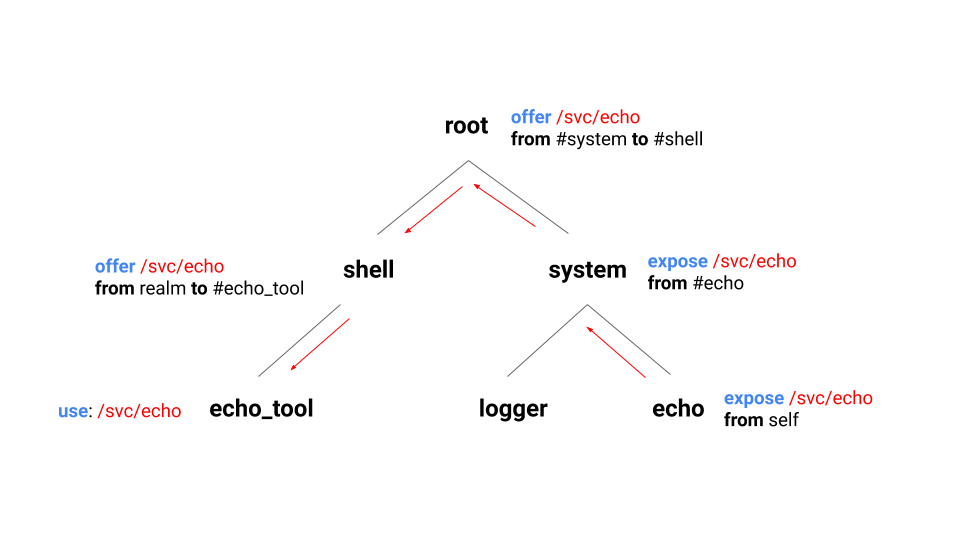
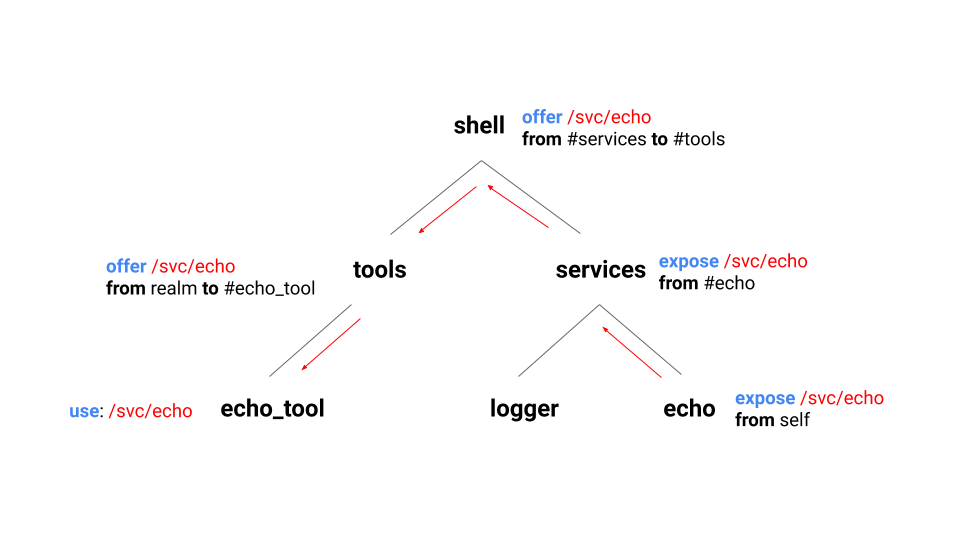
[docs] Add diagrams to realms.md
Add diagrams that illustrate realms and collections and explain them.

This change also introduces some improvements to the existing capability
routing diagram. The `root` realm is renamed to `shell` to be less
abstract and so as not to suggest that it corresponds the root of the
component instance tree. `shell` and `system` are also renamed to
`tools` and `services` respectively.

diff --git a/docs/the-book/components/realms.md b/docs/the-book/components/realms.md
@@ -25,8 +25,6 @@ Realms play a special role in the component framework. A realm is an
   component instance this looks the same as long as the sub-realm
   [exposes][expose] the same set of capabilities.
 
-TODO: Sample diagram of a realm
-
 ## Definitions
 
 This section contains definitions for basic terminology about realms.
@@ -38,11 +36,36 @@ This section contains definitions for basic terminology about realms.
 - A *containing realm* is the realm corresponding to the parent of a component
   instance.
 
+## Example
+
+Here is an example of a realm with a capability routed through it:
+
+![Realm example](realm_example.png)
+
+In this example, the `shell` component has two children: `tools` and `services`.
+`services` has two children, `logger` and `echo`, while `tools` has one child
+`echo_tool`. Components encapsulate their children, so while the `shell`
+component sees its own children, it has no direct knowledge of its grandchildren
+`echo_tool`, `logger`, or `echo`. Nevertheless, all of these component instances
+are considered part of the `shell` realm.
+
+The red arrows illustrate the path of an `/svc/echo` service capability that is
+routed through the realm from `echo` to `echo_tool`. The upward arrows
+correspond to [`expose`][expose] declarations, while the downward arrows
+represent [`offer`][offer] declarations. The `expose` declarations cause
+`/svc/echo` to be exposed outside of the capability boundary of the
+corresponding realms.  For example, if `services` did not expose `/svc/echo`,
+`shell` would not be aware that `/svc/echo` exists, and could not offer the
+service to its children or access it at runtime.
+
+For a more detailed walkthrough of capability routing with this example, see
+the [component manifest capability routing example][component-manifest-examples].
+
 ## Child component instances
 
 Component instances may contain children. Child component instances are
 considered part of the parent instance's definition and are wholly owned by the
-parent.  This has the following implications:
+parent. This has the following implications:
 
 - A component instance decides what children it contains, and when its children
   are created and destroyed.
@@ -59,8 +82,6 @@ parent.  This has the following implications:
 
 There are two varieties of child component instances, [static](#static-children)
 and [dynamic](#dynamic-children).
-
-TODO: Diagram of a realm showing static and dynamic children
 
 ### Static children
 
@@ -133,19 +154,42 @@ the collection.
 
 TODO: service directories as an example
 
+#### Example
+
+The following diagram illustrates a realm with a collection:
+
+![Collection example](collection_example.png)
+
+In this example, the `shell` component declares a static child `console` and a
+collection `(tools)`, highlighted by the dashed blue rectangle (the `()`
+notation denotes a collection). `(tools)` contains two dynamic instances, `ls`
+and `grep`. These instances are dynamic children of `shell`, scoped to
+`(tools)`. The use of a collection implies that the existence of `ls` and `grep`
+is not known in advance. This is plausible if you imagine that `ls` and `grep`
+are command-line tools that are instantiated on demand as the user requests
+them.
+
+The example also illustrates a capability routing path with the red arrows.
+First, `console` [exposes][expose] `/svc/console` to its containing realm
+`shell`, which [offers][offer] it to `(tools)`. `/svc/console` then becomes
+available for any component instance in the collection to [use][use] -- it does
+not need to be routed to the dynamic instances independently.
+
 ## The Realm framework service
 
 There is a [framework service][framework-services] available to every component,
-[`fuchsia.sys2.Realm`][realm]. The `Realm` service provides APIs for a component
-instance to manage the children in its realm, such as binding to children and
-creating dynamic children. See the linked FIDL definitions for full
+[`fuchsia.sys2.Realm`][realm.fidl]. The `Realm` service provides APIs for a
+component instance to manage the children in its realm, such as binding to
+children and creating dynamic children. See the linked FIDL definitions for full
 documentation.
 
 [children]: ./component_manifests.md#children
 [collections]: ./component_manifests.md#collections
 [component-manifests]: ./component_manifests.md
+[component-manifest-examples]: ./component_manifests.md#examples
 [expose]: ./component_manifests.md#expose
 [framework-services]: ./component_manifests.md#framework-services
 [glossary-storage]: /docs/glossary.md#storage-capability
 [offer]: ./component_manifests.md#offer
-[realm]: /sdk/fidl/fuchsia.sys2/realm.fidl
+[realm.fidl]: /sdk/fidl/fuchsia.sys2/realm.fidl
+[use]: ./component_manifests.md#use

diff --git a/docs/the-book/components/component_manifests.md b/docs/the-book/components/component_manifests.md
@@ -173,21 +173,22 @@ instance tree:
 
 ![Capability routing example](capability_routing_example.png)
 
-In this example, the *echo* component instance provides an `/svc/echo` service
+In this example, the `echo` component instance provides an `/svc/echo` service
 in its outgoing directory. This service is routed to the `echo_tool` component
 instance, which uses it. It is necessary for each component instance in the
 routing path to propagate `/svc/echo` to the next component instance.
 
 The routing sequence is:
 
-- *echo* hosts the `/svc/echo` service in its outgoing directory. Also, it
+- `echo` hosts the `/svc/echo` service in its outgoing directory. Also, it
   exposes `/svc/echo` from `self` so the service is visible to its parent,
-  *system*.
-- *system* exposes `/svc/echo` from its child `echo` to its parent, *root*.
-- *root* offers `/svc/echo` from its child `system` to its other child *shell*.
-- *shell* offers `/svc/echo` from `realm` (i.e., its parent) to its child
-  *echo_tool*.
-- *echo_tool* uses `/svc/echo`. When `echo_tool` runs, it will find `/svc/echo`
+  `services`.
+- `services` exposes `/svc/echo` from its child `echo` to its parent, `shell`.
+- `system` offers `/svc/echo` from its child `services` to its other child
+  `tools`.
+- `tools` offers `/svc/echo` from `realm` (i.e., its parent) to its child
+  `echo_tool`.
+- `echo_tool` uses `/svc/echo`. When `echo_tool` runs, it will find `/svc/echo`
   in its namespace.
 
 A working example of capability routing can be found at
